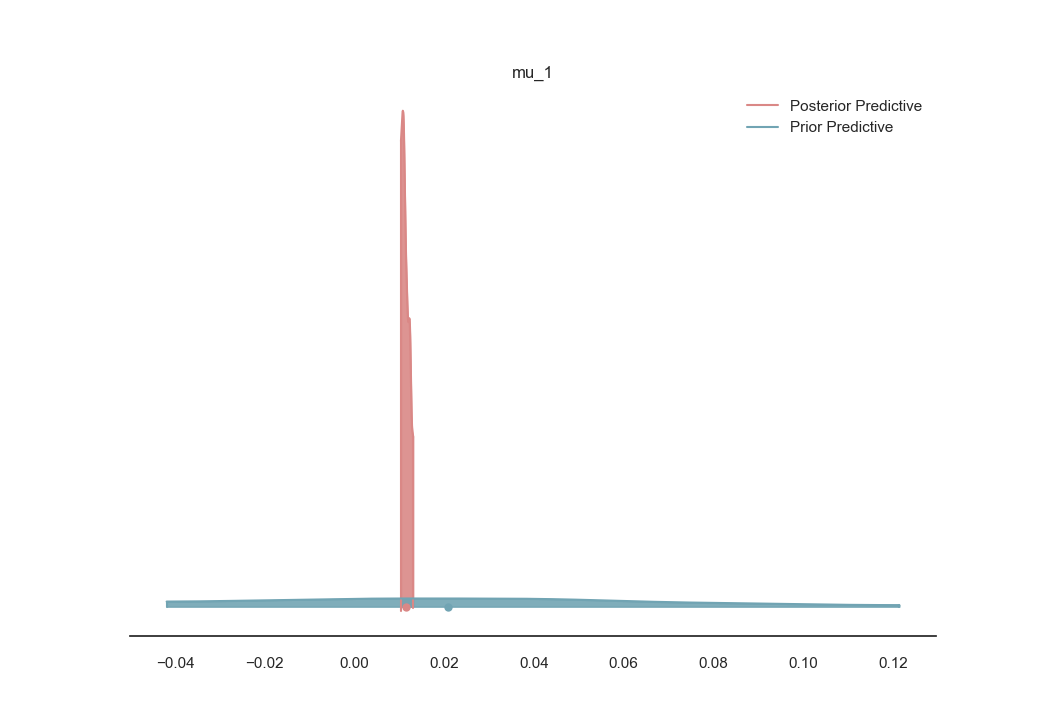
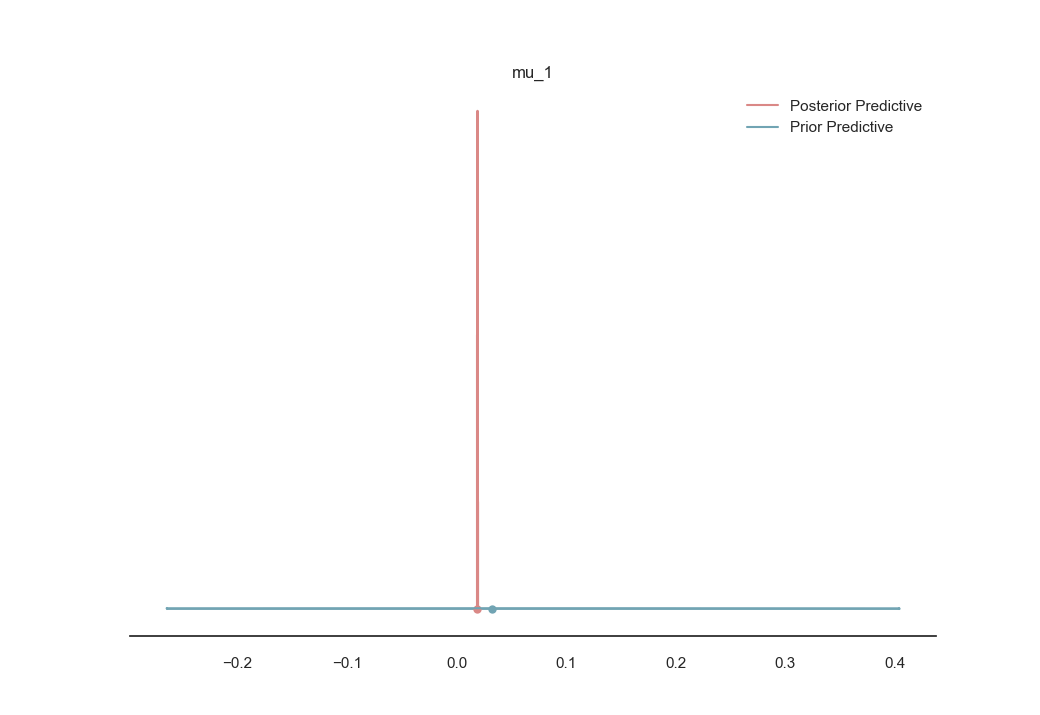
adding prior on mean for KSL data

diff --git a/run_with_prior_mean_KSL.py b/run_with_prior_mean_KSL.py
@@ -41,7 +41,7 @@ parser.add_argument('--plot_dimred', metavar='plot_dimred', type=str , default="
 parser.add_argument('--prior_number_samples', metavar='prior_number_samples', type=int , default=100, help='number of samples for prior')
 parser.add_argument('--posterior_number_samples', metavar='posterior_number_samples', type=int , default=150, help='number of samples for posterior')
 parser.add_argument('--posterior_warmup_steps', metavar='posterior_warmup_steps', type=int , default=50, help='number of  warmup steps for posterior')
-parser.add_argument('--directory_path', metavar='directory_path', type=str , default="./Results_without_prior_gmm_KSL", help='name of the directory in which result should be stored')
+parser.add_argument('--directory_path', metavar='directory_path', type=str , default="./Results_with_prior_mean_KSL", help='name of the directory in which result should be stored')
 
 def cluster_acc(Y_pred, Y, ignore_label=None):
     """ Rearranging the class labels of prediction so that it maximise the 
@@ -276,7 +276,18 @@ def main():
     ## Obtain the preprocessed data
     ###########################################################################
     normalised_hsi =torch.tensor(df_with_spectral_normalised.to_numpy(), dtype=torch.float64)
-
+    
+    if dimred=="pca":
+        from sklearn.decomposition import PCA
+        pca = PCA(n_components=4)
+        transformed_hsi = pca.fit_transform(normalised_hsi)
+        normalised_hsi = torch.tensor(transformed_hsi, dtype=torch.float64)
+        
+    if dimred =="tsne":
+        #######################TODO#####################
+        ################################################
+        print("TSNE hasn't implemented for dimensionality reduction yet")
+        exit()
     ## It is difficult to work with data in such a high dimensions, because the covariance matrix 
     ## determinant quickly goes to zero even if eigen-values are in the range of 1e-3. Therefore it is advisable 
     ## to fist apply dimensionality reduction to a lower dimensions
@@ -376,7 +387,8 @@ def main():
     # geo_model_test.interpolation_options.mesh_extraction = False
     geo_model_test.interpolation_options.sigmoid_slope = 40
     store_accuracy=[]
-    
+    factor=100 #0.01 , 100
+    alpha = 100
     @config_enumerate
     def model_test(obs_data):
         """
@@ -441,19 +453,17 @@ def main():
         N_k = torch.sum(z_nk,axis=0)
         N = len(custom_grid_values)
         pi_k = N_k /N
-        mean = []
-        cov = []
-        for i in range(z_nk.shape[1]):
-            mean_k = torch.sum( z_nk[:,i][:,None] * obs_data, axis=0)/ N_k[i]
-            #cov_k = torch.sum( (normalised_hsi - mean_k.reshape((-1,1))) (normalised_hsi - mean_k).T )
-            cov_k = torch.zeros((mean_k.shape[0],mean_k.shape[0]),dtype=torch.float64)
-            for j in range(z_nk.shape[0]):
-                 cov_k +=  z_nk[j,i]* torch.matmul((obs_data[j,:] - mean_k).reshape((-1,1)) ,(obs_data[j,:] - mean_k).reshape((1,-1)))
-            mean.append(mean_k)
-            cov_k=cov_k/N_k[i] + 1e-8 * torch.diag(torch.ones(cov_k.shape[0],dtype=torch.float64))
-            cov.append(cov_k)
-        mean_tensor = torch.stack(mean, dim=0)
-        cov_tensor = torch.stack(cov,dim=0)
+        loc_mean = torch.tensor(mean_init,dtype=torch.float64)
+        loc_cov =  torch.tensor(cov_init, dtype=torch.float64)
+        cov_matrix = alpha * torch.eye(loc_mean[0].shape[0],dtype=torch.float64)
+        
+        sample =[]
+        for i in range(loc_mean.shape[0]):
+            #sample_data = pyro.sample("sample_data"+str(i+1), dist.MultivariateNormal(loc=loc_mean[i],covariance_matrix=loc_cov[i]))
+            sample_data = pyro.sample("sample_data"+str(i+1), dist.MultivariateNormal(loc=loc_mean[i],covariance_matrix=cov_matrix))
+            sample.append(sample_data)
+        mean_tensor = torch.stack(sample, dim=0)
+        cov_tensor = loc_cov
         
         #cov_likelihood = 5.0 * torch.eye(loc_cov[0].shape[0], dtype=torch.float64)
         
@@ -467,6 +477,7 @@ def main():
     ################################################################################
     # Prior
     ################################################################################
+    
     pyro.set_rng_seed(42)
     prior = Predictive(model_test, num_samples=prior_number_samples)(normalised_hsi)
     # Key to avoid
@@ -537,6 +548,7 @@ def main():
     
     unnormalise_posterior_value={}
     unnormalise_posterior_value["log_prior_geo_list"]=[]
+    unnormalise_posterior_value["log_prior_hsi_list"]=[]
     unnormalise_posterior_value["log_likelihood_list"]=[]
     unnormalise_posterior_value["log_posterior_list"]=[]
     # log_prior_geo_list=[]
@@ -603,7 +615,7 @@ def main():
         # loc_cov =  torch.tensor(cov_init, dtype=torch.float64)
         z_nk = F.softmax(-lambda_* (torch.linspace(1,cluster,cluster, dtype=torch.float64) - custom_grid_values.reshape(-1,1))**2, dim=1)
         #class_label = torch.mean(F.softmax(-lambda_* (torch.tensor([1,2,3,4,5,6], dtype=torch.float64) - custom_grid_values.reshape(-1,1))**2, dim=1),dim=0)
-        
+        exit()
         N_k = torch.sum(z_nk,axis=0)
         N = len(custom_grid_values)
         pi_k = N_k /N

diff --git a/run_without_prior_gmm_SalinasA_mod.py b/run_without_prior_gmm_SalinasA_mod.py
@@ -718,7 +718,7 @@ def main():
             #print(obs_data.shape, mean_tensor[assignment].shape,cov_tensor[assignment].shape)
             obs = pyro.sample("obs", dist.MultivariateNormal(loc=mean_tensor[assignment],covariance_matrix = cov_tensor[assignment]), obs=obs_data)
     
-    filename_bayes_graph = directory_path + "\Bayesian_graph.png"
+    filename_bayes_graph = directory_path + "/Bayesian_graph.png"
     dot = pyro.render_model(model_test, model_args=(normalised_hsi,),render_distributions=True,filename=filename_bayes_graph)
     
     ################################################################################
